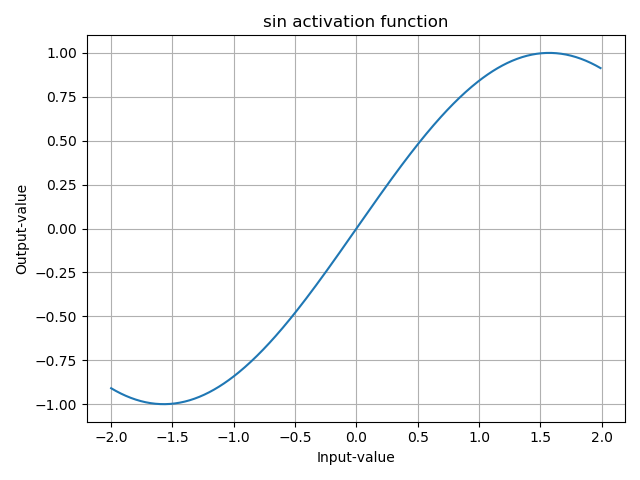
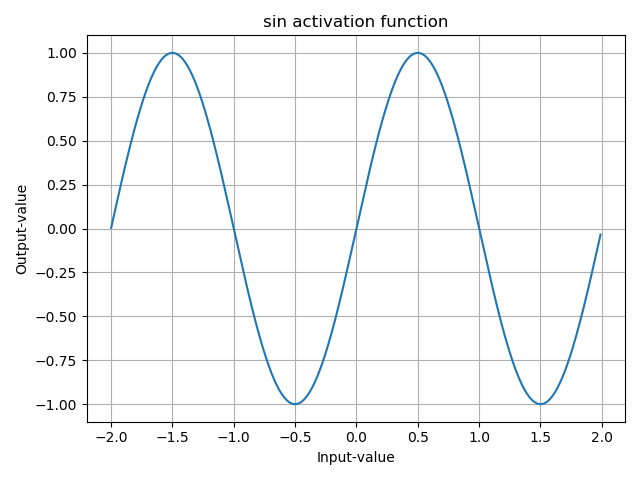
Updated used activation functions

diff --git a/population/utils/network_util/activations.py b/population/utils/network_util/activations.py
@@ -4,9 +4,9 @@ activations.py
 Each of the supported activation functions.
 """
 import torch
-import torch.nn.functional as F
 
-from utils.dictionary import D_ABS, D_CUBE, D_GAUSS, D_GELU, D_IDENTITY, D_RELU, D_SIGMOID, D_SIN, D_SQUARE, D_TANH
+from utils.dictionary import D_CLAMPED_ABS, D_CLAMPED_LINEAR, D_COS, D_EXP, D_EXP_ABS, D_GAUSS, D_HAT, D_SIGMOID, D_SIN, \
+    D_TANH
 
 
 def sigmoid_activation(x):
@@ -17,47 +17,47 @@ def tanh_activation(x):
     return torch.tanh(1.5 * x)
 
 
-def abs_activation(x):
-    return torch.abs(x)
-
-
 def gauss_activation(x):
     return torch.exp(-2.0 * x ** 2)
 
 
-def identity_activation(x):
-    return x
-
-
 def sin_activation(x):
-    return torch.sin(x)
+    return torch.sin(x*3.14)
 
 
-def relu_activation(x):
-    return F.relu(x)
+def cos_activation(x):
+    return torch.cos(x*3.14)
 
 
-def gelu_activation(x):
-    return F.gelu(x)
+def clamped_linear_activation(x):
+    return max(-1.0, min(1.0, x))
 
 
-def cube_activation(x):
-    return x ** 3
+def clamped_abs_activation(x):
+    return min(1.0, torch.abs(x))
 
 
-def square_activation(x):
-    return x ** 2
+def exponential_activation(x):
+    return 1 - 1 / torch.exp(torch.abs(x))
+
+
+def exponential_abs_activation(x):
+    return torch.abs(x) ** (1 / torch.abs(x))
+
+
+def hat_activation(z):
+    return max(0.0, 1 - torch.abs(z))
 
 
 str_to_activation = {
-    D_SIGMOID:  sigmoid_activation,
-    D_TANH:     tanh_activation,
-    D_ABS:      abs_activation,
-    D_GAUSS:    gauss_activation,
-    D_IDENTITY: identity_activation,
-    D_SIN:      sin_activation,
-    D_RELU:     relu_activation,
-    D_GELU:     gelu_activation,
-    D_CUBE:     cube_activation,
-    D_SQUARE:   square_activation,
+    D_SIGMOID:        sigmoid_activation,
+    D_TANH:           tanh_activation,
+    D_GAUSS:          gauss_activation,
+    D_SIN:            sin_activation,
+    D_COS:            cos_activation,
+    D_CLAMPED_LINEAR: clamped_linear_activation,
+    D_CLAMPED_ABS:    clamped_abs_activation,
+    D_EXP:            exponential_activation,
+    D_EXP_ABS:        exponential_abs_activation,
+    D_HAT:            hat_activation,
 }

diff --git a/utils/dictionary.py b/utils/dictionary.py
@@ -6,12 +6,13 @@ Words used across the project, sorted in alphabetical order.
 
 # A
 D_A_STAR = 'A*'
-D_ABS = 'abs'
 D_ANGLE = 'angle'
 D_AVG = 'avg'
 
 # C
-D_CUBE = 'cube'
+D_CLAMPED_ABS = 'clamped_abs'
+D_CLAMPED_LINEAR = 'clamped_linear'
+D_COS = 'cos'
 
 # D
 D_DIST_TO_TARGET = 'distance_to_target'
@@ -19,6 +20,10 @@ D_DISTANCE = 'distance'
 D_DISTANCE_ONLY = 'DISTANCE-ONLY'
 D_DIVERSITY = 'diversity'
 D_DONE = 'done'
+
+# E
+D_EXP = 'exp'
+D_EXP_ABS = 'exp_abs'
 
 # F
 D_FPS = 'fps'
@@ -28,12 +33,11 @@ D_FULL_NODIRECT = 'full_nodirect'
 # G
 D_GAME_ID = 'game_id'
 D_GAUSS = 'gauss'
-D_GELU = 'gelu'
 D_GMEAN = 'gmean'
 D_GRU = 'gru'
 
-# I
-D_IDENTITY = 'identity'
+# H
+D_HAT = 'hat'
 
 # L
 D_LINEAR = 'linear'
@@ -56,15 +60,11 @@ D_PATH = 'path'
 D_POS = 'position'
 D_PRODUCT = 'product'
 
-# R
-D_RELU = 'relu'
-
 # S
 D_SENSOR_LIST = 'sensor_list'
 D_SIGMOID = 'sigmoid'
 D_SIMPLE = 'simple'
 D_SIN = 'sin'
-D_SQUARE = 'square'
 D_SUM = 'sum'
 
 # T

diff --git a/configs/population_config.py b/configs/population_config.py
@@ -30,11 +30,11 @@ class PopulationConfig(BaseConfig):
         # Number of most fit individuals per specie that are preserved as-is from one generation to the next  [def=2]
         self.genome_elitism: int = 2
         # Minimum number of genomes per species, keeping low prevents number of individuals blowing up  [def=10]  TODO
-        self.min_specie_size: int = 10
+        self.min_specie_size: int = 32
         # The fraction for each species allowed to reproduce each generation (parent selection)  [def=0.3]  TODO
         self.parent_selection: float = 0.2
         # Maximum number of species  [def=20]
-        self.specie_count_max = 20
+        self.specie_count_max = 15
         # Minimum number of species  [def=5]
         self.specie_count_min = 5
         # Target number of species  [def=10]
